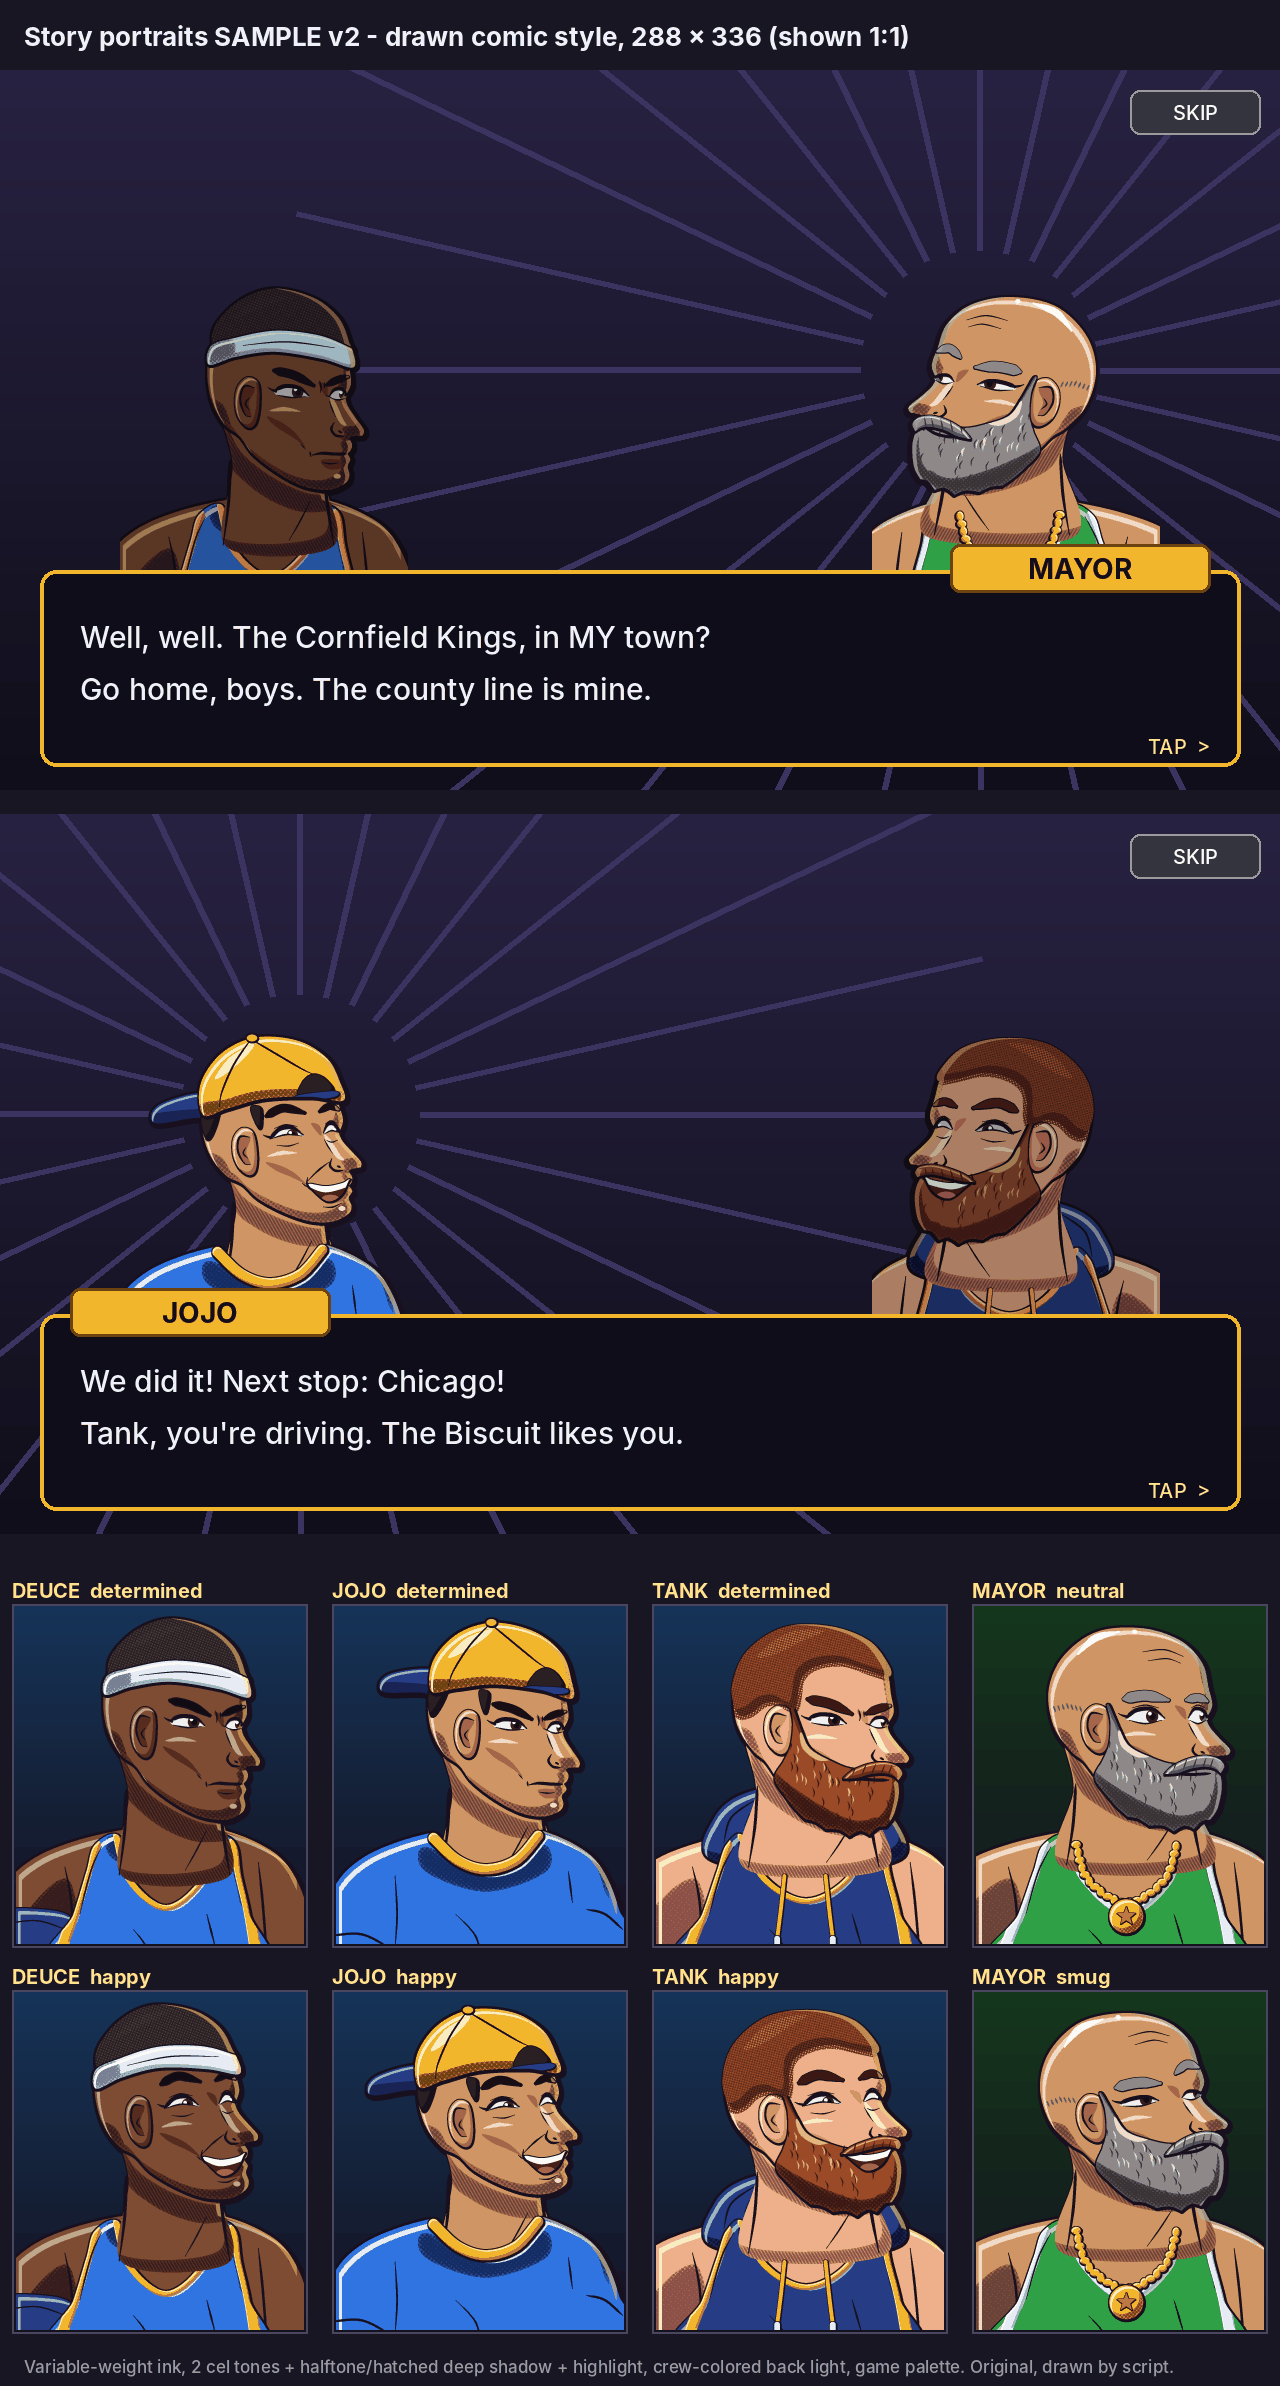
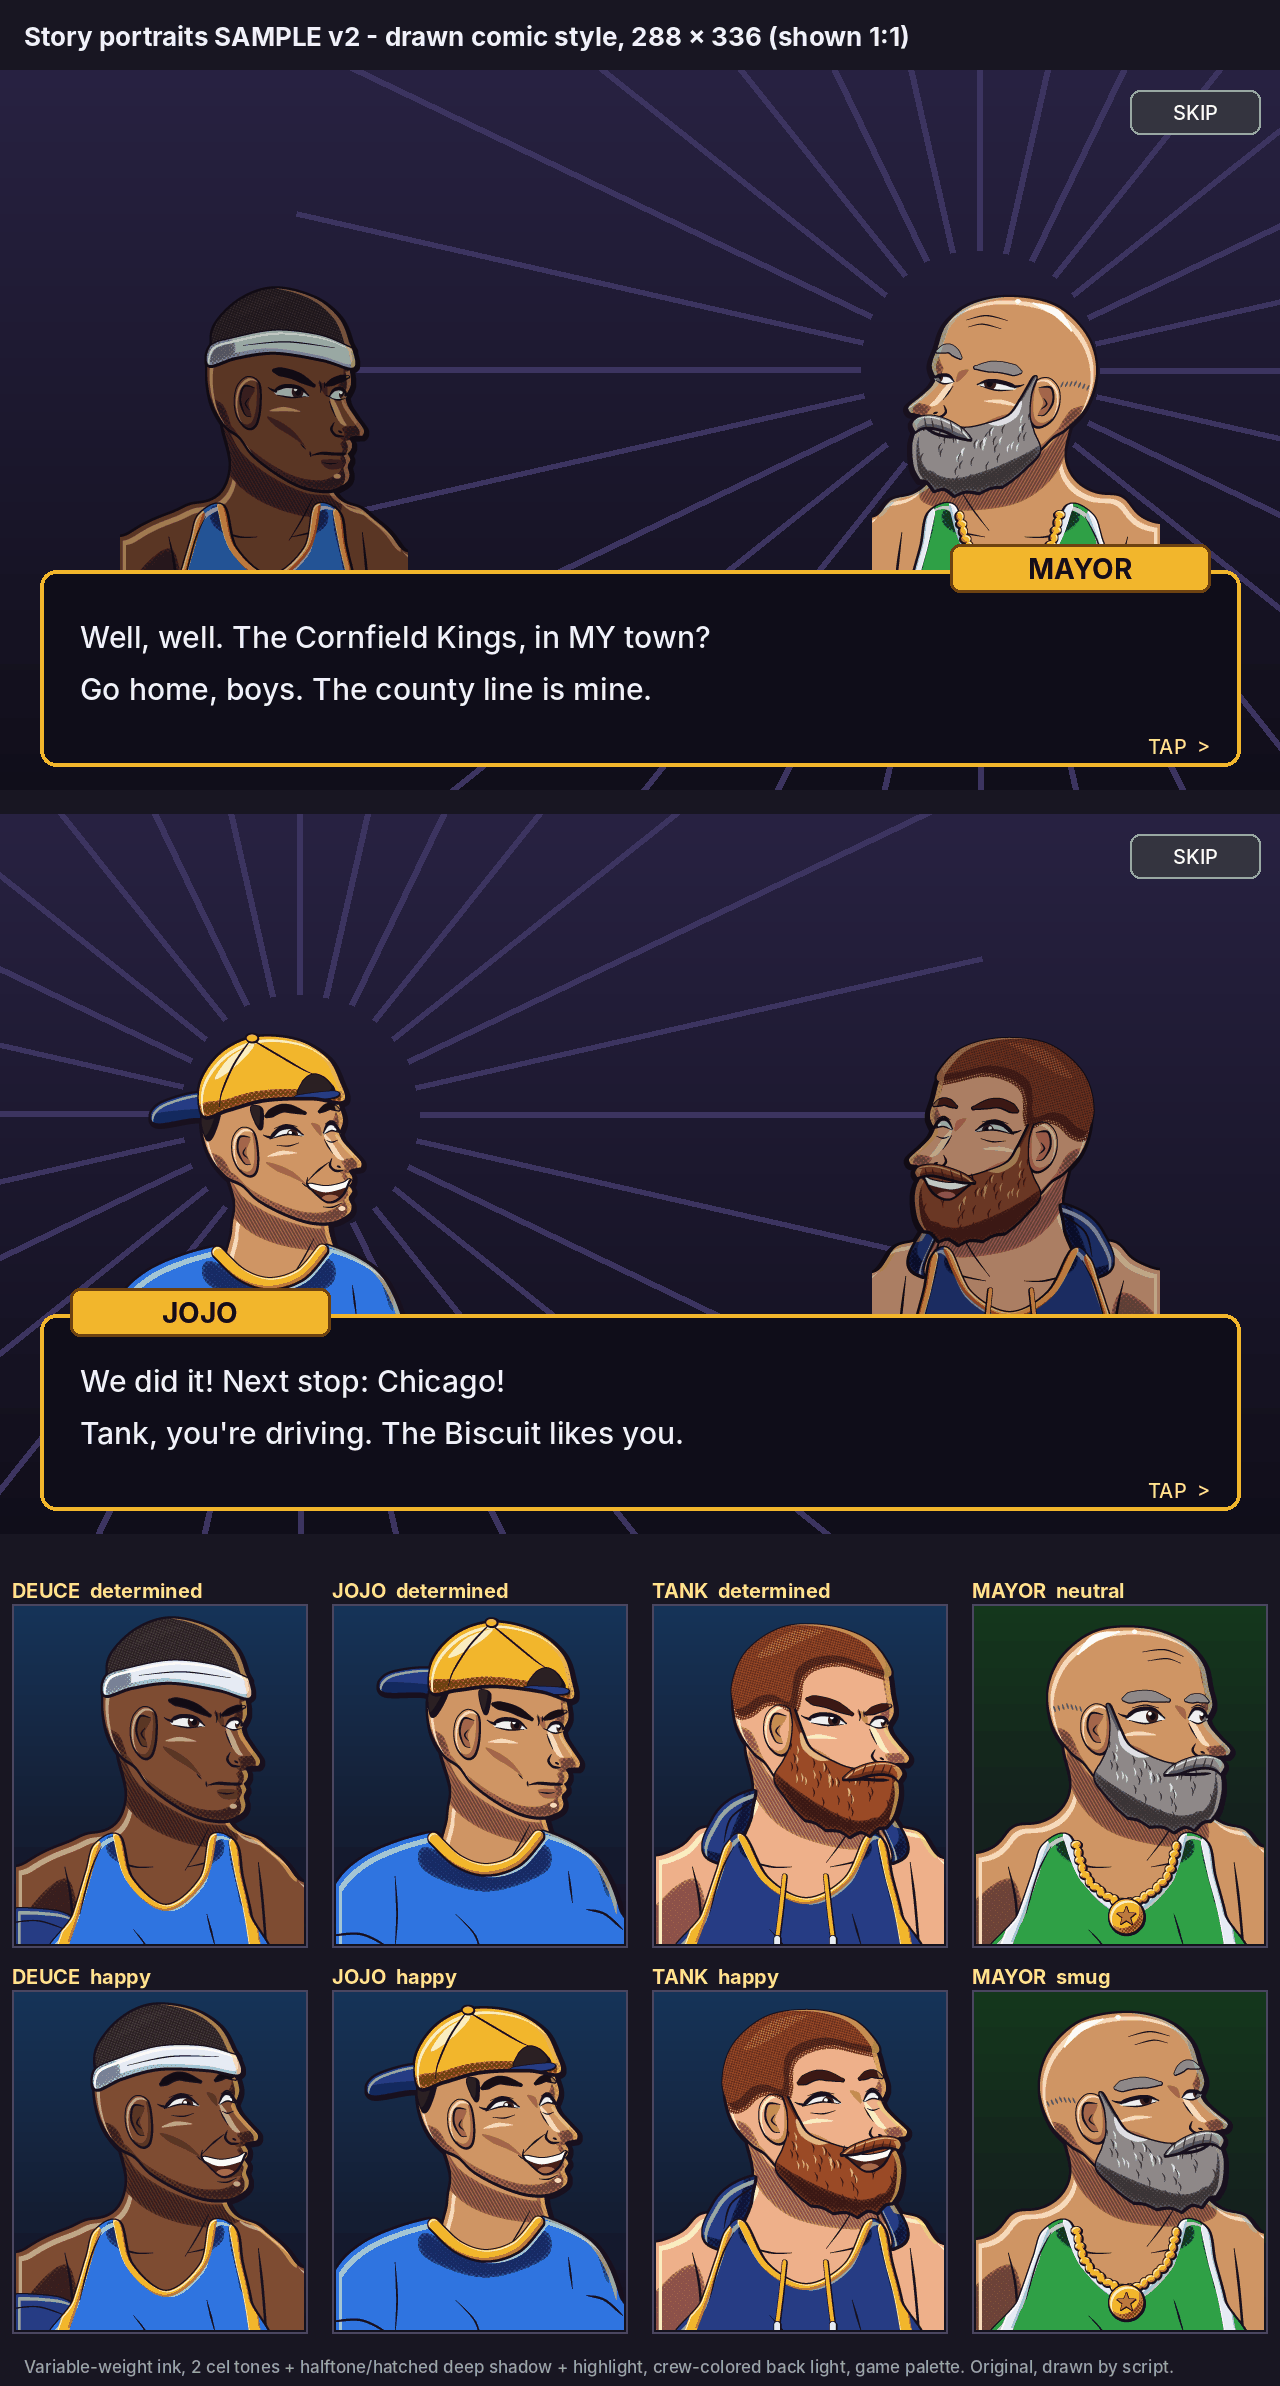
Portraits v2: neck drawn as part of the body, no seam at the join
The neck is now one skin shape with the shoulders (its sides flare into the
trapezius, the corner smoothed by a closing), shaded with the same tones and
a hatched jaw cast shadow. Ink only on the silhouette and real edges (jaw,
necklines, beard, hood behind the neck). Jojo's neck ends at the tee collar.

Claude-Session: https://claude.ai/code/session_01K8WPuYbTD1xrCASynmgFd3

diff --git a/tools/art/make_portraits_v2.py b/tools/art/make_portraits_v2.py
@@ -190,18 +190,37 @@ def face(cv, T, Tn, skin, expr, jaw=0.0, chin=0.0, crown=0.0, beard=False, hair_
     return draw_head(cv, T, skin, expr, jaw, chin, crown, beard, brow_col, brow_w)
 
 
+def neck_shape(Tn, jaw):
+    """The neck as part of the body: its sides flare smoothly into the trapezius (head-local, no head tilt)."""
+    j = jaw
+    return Tn([(-44, 10), (-37 - j * 0.5, 54), (-39 - j * 0.6, 70), (-46 - j, 84), (-62 - j, 93), (-84 - j, 99),
+               (-92 - j, 170), (100 + j, 170), (92 + j, 101), (76 + j, 95), (62 + j, 86), (56 + j * 0.6, 72),
+               (51 + j * 0.5, 58), (46, 40), (10, 40)])
+
+
+def neck_column(Tn, jaw):
+    """Just the neck column (for things that sit behind the neck, like a hood)."""
+    return Tn([(-44, 10), (-37 - jaw * 0.5, 54), (-40 - jaw * 0.6, 80), (-42 - jaw, 130), (60 + jaw, 130),
+               (56 + jaw * 0.6, 80), (51 + jaw * 0.5, 58), (46, 40), (10, 40)])
+
+
+def neck_shading(cv, T, Tn, M, skin, jaw):
+    """Cast shadow of the jaw on the neck (hatched), in the same skin tones as the face, and the neck muscle."""
+    d = max(0.0, jaw) * 2.0          # bearded jaws (jaw > 0) cast a deeper shadow
+    cast = cv.poly(T([(-46, 20), (-30, 46), (-10, 62), (12, 74), (34, 82), (58, 84), (62, 96 + d), (40, 102 + d),
+                      (14, 98 + d), (-12, 88 + d), (-32, 74 + d * 0.6), (-44, 56)])) & M
+
+    cv.rgb[cast] = skin["sh"]
+    f = cv.soft(cast, 2.5) * cast
+    cv.rgb[cv.hatch(np.clip((f - 0.3) * 1.6, 0, 1), spacing=2.8, ang=-30.0, wmax=0.6) & cast] = skin["dp"]
+    cv.ink(cv.line(Tn([(40, 88), (30, 106), (18, 124)]), 1.3, taper=(0.5, 0.7)))      # neck muscle
+
+
 def draw_neck(cv, T, Tn, skin, jaw):
-    # neck (drawn before the head; the jaw ink covers its top)
-    neck = cv.poly(Tn([(-44, 10), (-36 - jaw * 0.5, 60), (-42 - jaw, 130), (60 + jaw, 130), (52 + jaw * 0.5, 74),
-                       (44, 40), (10, 40)]))
-    jaw_shadow = cv.poly(T([(-46, 20), (-30, 46), (-10, 62), (12, 74), (34, 82), (56, 84), (58, 94), (30, 98),
-                            (4, 90), (-20, 76), (-38, 58)]))
-    side = cv.crescent(neck, 14)
-    cv.cel(neck, skin, shadow=jaw_shadow | side, dots=False, ink=0,
-           hatch={"spacing": 2.8, "ang": -30.0, "wmax": 0.6})
-    cv.ink(cv.line(Tn([(-37, 56), (-39, 92), (-44, 128)]), 2.4, taper=(0.1, 0.5)))
-    cv.ink(cv.line(Tn([(51, 72), (55, 100), (60, 128)]), 2.6, taper=(0.1, 0.5)))
-    cv.ink(cv.line(Tn([(38, 90), (28, 108), (18, 124)]), 1.3, taper=(0.5, 0.6)))     # neck muscle
+    """A neck on its own (under a tee that covers the shoulders)."""
+    neck = cv.poly(neck_column(Tn, jaw))     # the tee's collar is its lower edge
+    cv.cel(neck, skin, shadow=cv.crescent(neck, 16), hi=cv.sheen(neck, 4, 5), dots=False, ink=2.4)
+    neck_shading(cv, T, Tn, neck, skin, jaw)
     return neck
 
 
@@ -252,13 +271,17 @@ def body_shape(broad):
             (X(198), 224), (X(238), 238), (X(264), 258), (X(282), 296), (X(292), 350)], X
 
 
-def skin_body(cv, skin, broad):
+def skin_body(cv, skin, broad, T, Tn, jaw):
+    """Shoulders, arms and neck as one skin shape: one contour, one set of tones, no seam at the neck."""
     pts, X = body_shape(broad)
-    M = cv.poly(pts)
+    M = cv.poly(pts) | cv.poly(neck_shape(Tn, jaw))
+    # morphological closing (soft dilate, then soft erode): the neck-to-shoulder corner becomes one smooth curve
+    M = cv.soft(cv.soft(M, 5.0) > 0.12, 5.0) > 0.88
     sh = cv.crescent(M, 22)
     sh |= cv.poly([(X(20), 300), (X(60), 270), (X(66), 350), (X(10), 350)])      # near arm, under the deltoid
     hi = cv.sheen(M, 4, 5)
     cv.cel(M, skin, shadow=sh, hi=hi, ink=2.4)
+    neck_shading(cv, T, Tn, M, skin, jaw)
     cv.ink(cv.line([(X(56), 258), (X(62), 290), (X(64), 340)], 2.0, taper=(0.3, 0.1)))   # near deltoid
     cv.ink(cv.line([(X(236), 254), (X(240), 290), (X(244), 340)], 2.0, taper=(0.3, 0.1)))
     cv.ink(cv.line([(X(100), 252), (X(122), 258), (X(138), 258)], 1.4, taper=(0.4, 0.5)))  # collarbones
@@ -304,13 +327,13 @@ def deuce(cv, pal, skins, expr):
     ang = {"focus": 3.0, "happy": -4.0}[expr]
     T = C.Xf(150, 132, 0.95, 1.04, ang, pivot=(0, 40), front=FRONT)
     Tn = C.Xf(150, 132, 0.95, 1.04, 0)
-    _, X = skin_body(cv, skin, 0.96)
+    _, X = skin_body(cv, skin, 0.96, T, Tn, -2)
     # navy arm sleeve on the near arm
     sl = cv.poly([(X(-20), 352), (X(-12), 302), (X(36), 296), (X(66), 308), (X(68), 352)])
     cv.cel(sl, navy, shadow=cv.crescent(sl, 10), hi=cv.sheen(sl, 3, 4), ink=2.0)
     cv.ink(cv.line([(X(-6), 310), (X(30), 306), (X(62), 316)], 1.0, taper=(0.3, 0.3)) & sl)
     tank_top(cv, X, top, trim)
-    face(cv, T, Tn, skin, expr, jaw=-2, chin=1, crown=4, brow_col=(20, 12, 14))
+    face(cv, T, Tn, skin, expr, jaw=-2, chin=1, crown=4, brow_col=(20, 12, 14), neck=False)
     # short hair, then the headband over it
     hp = T([(-54, -36), (-58, -56), (-36, -80), (-4, -92), (30, -86), (52, -70), (62, -50), (63, -40), (20, -46),
             (-20, -40)])
@@ -403,17 +426,17 @@ def tank(cv, pal, skins, expr):
     ang = {"focus": 3.0, "happy": -4.0}[expr]
     T = C.Xf(148, 130, 1.06, 1.0, ang, pivot=(0, 40), front=FRONT)
     Tn = C.Xf(148, 130, 1.12, 1.0, 0)
-    _, X = skin_body(cv, skin, 1.08)
+    _, X = skin_body(cv, skin, 1.08, T, Tn, 4)
     # sleeveless hoodie: wide straps, the hood bunched behind the neck, gold drawstrings
     hood = cv.poly([(X(70), 250), (X(74), 214), (X(100), 192), (X(150), 184), (X(196), 192), (X(222), 214),
-                    (X(228), 250), (X(150), 262)])
+                    (X(228), 250), (X(150), 262)]) & ~cv.poly(neck_column(Tn, 4))
     cv.cel(hood, navy, shadow=cv.crescent(hood, 12) | cv.poly([(X(106), 206), (X(150), 198), (X(194), 206),
                                                               (X(194), 250), (X(106), 250)]),
            hi=cv.sheen(hood, 3, 4), ink=2.2)
     cv.ink(cv.line([(X(82), 236), (X(88), 214), (X(108), 198)], 1.4, taper=(0.3, 0.3)))     # hood folds
     cv.ink(cv.line([(X(212), 236), (X(206), 214)], 1.4, taper=(0.3, 0.3)))
     tank_top(cv, X, navy, gold, scoop=286, strap=14)
-    face(cv, T, Tn, skin, expr, jaw=4, chin=2, crown=0, beard=True, brow_col=hair["dp"], brow_w=1.2)
+    face(cv, T, Tn, skin, expr, jaw=4, chin=2, crown=0, beard=True, brow_col=hair["dp"], brow_w=1.2, neck=False)
     for xs, xe in ((132, 126), (166, 172)):
         cord = cv.line([(X(xs), 266), (X((xs + xe) / 2), 296), (X(xe), 322)], 3.2, taper=(0, 0))
         cv.cel(cord, gold, ink=1.0, dots=False)
@@ -486,9 +509,10 @@ def mayor(cv, pal, skins, expr):
     ang = {"neutral": 0.0, "smug": -7.0}[expr]
     T = C.Xf(148, 128, 1.08, 1.0, ang, pivot=(0, 40), front=FRONT)
     Tn = C.Xf(148, 128, 1.16, 1.0, 0)
-    _, X = skin_body(cv, skin, 1.12)
+    _, X = skin_body(cv, skin, 1.12, T, Tn, 5)
     tank_top(cv, X, green, white, scoop=296, strap=20)
-    face(cv, T, Tn, skin, expr, jaw=5, chin=2, crown=-2, beard=True, brow_col=grey["base"], brow_w=1.4)
+    face(cv, T, Tn, skin, expr, jaw=5, chin=2, crown=-2, beard=True, brow_col=grey["base"], brow_w=1.4, neck=False)
+
     # a few short grey hairs above and behind the ear
     for k in range(7):
         x, y = -58 + k * 3.6, -16 + abs(k - 3) * 0.8
